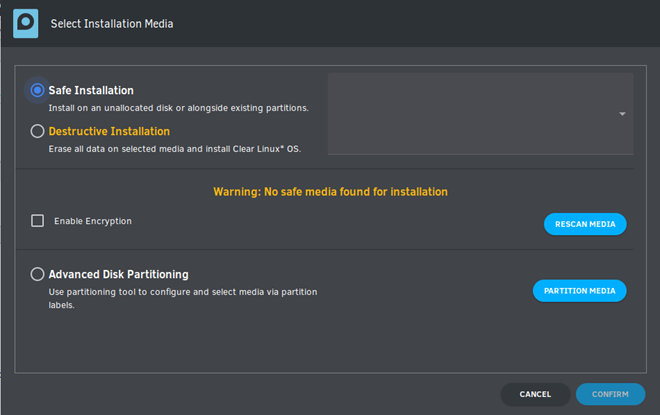
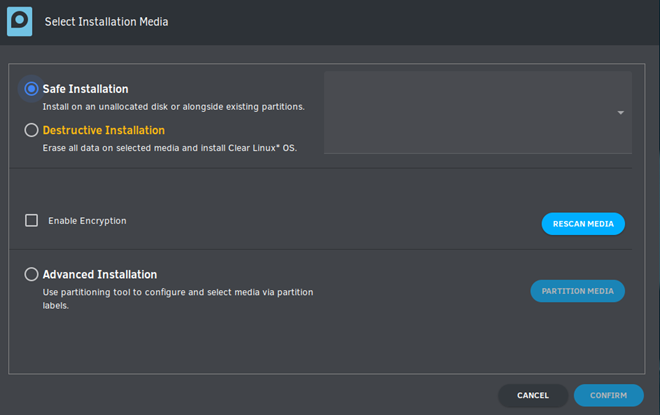
Replace Figures 8, 11 for new menu name: Advanced Installation - Change from Advanced Disk Config -> Advanced Installation - Revise word choice in above section for clarity

diff --git a/source/get-started/bare-metal-install-desktop.rst b/source/get-started/bare-metal-install-desktop.rst
@@ -312,9 +312,9 @@ Our example uses the `Default partition schema`_. The space you allocate for
 
    .. figure:: /_figures/bare-metal-install-desktop/bare-metal-install-desktop-11.png
       :scale: 100%
-      :alt: Advanced Disk Partitioning
+      :alt: Advanced Installation
 
-      Figure 11: Advanced Disk Partitioning
+      Figure 11: Advanced Installation
 
 boot partition
 --------------
@@ -359,7 +359,7 @@ boot partition
 swap partition
 --------------
 
-#. With :guilabel:`unallocated` selected, select from the menu
+#. With :guilabel:`unallocated` highlighted, select from the menu
    :menuselection:`Partition --> New`.
 
 #. In :guilabel:`Create new Partition`, complete the following fields to
@@ -381,7 +381,7 @@ swap partition
 root partition
 --------------
 
-#. With :guilabel:`unallocated` selected, select from the menu
+#. With :guilabel:`unallocated` highlighted, select from the menu
    :menuselection:`Partition --> New`.
 
 #. In :guilabel:`Create new Partition`, complete the following fields to
